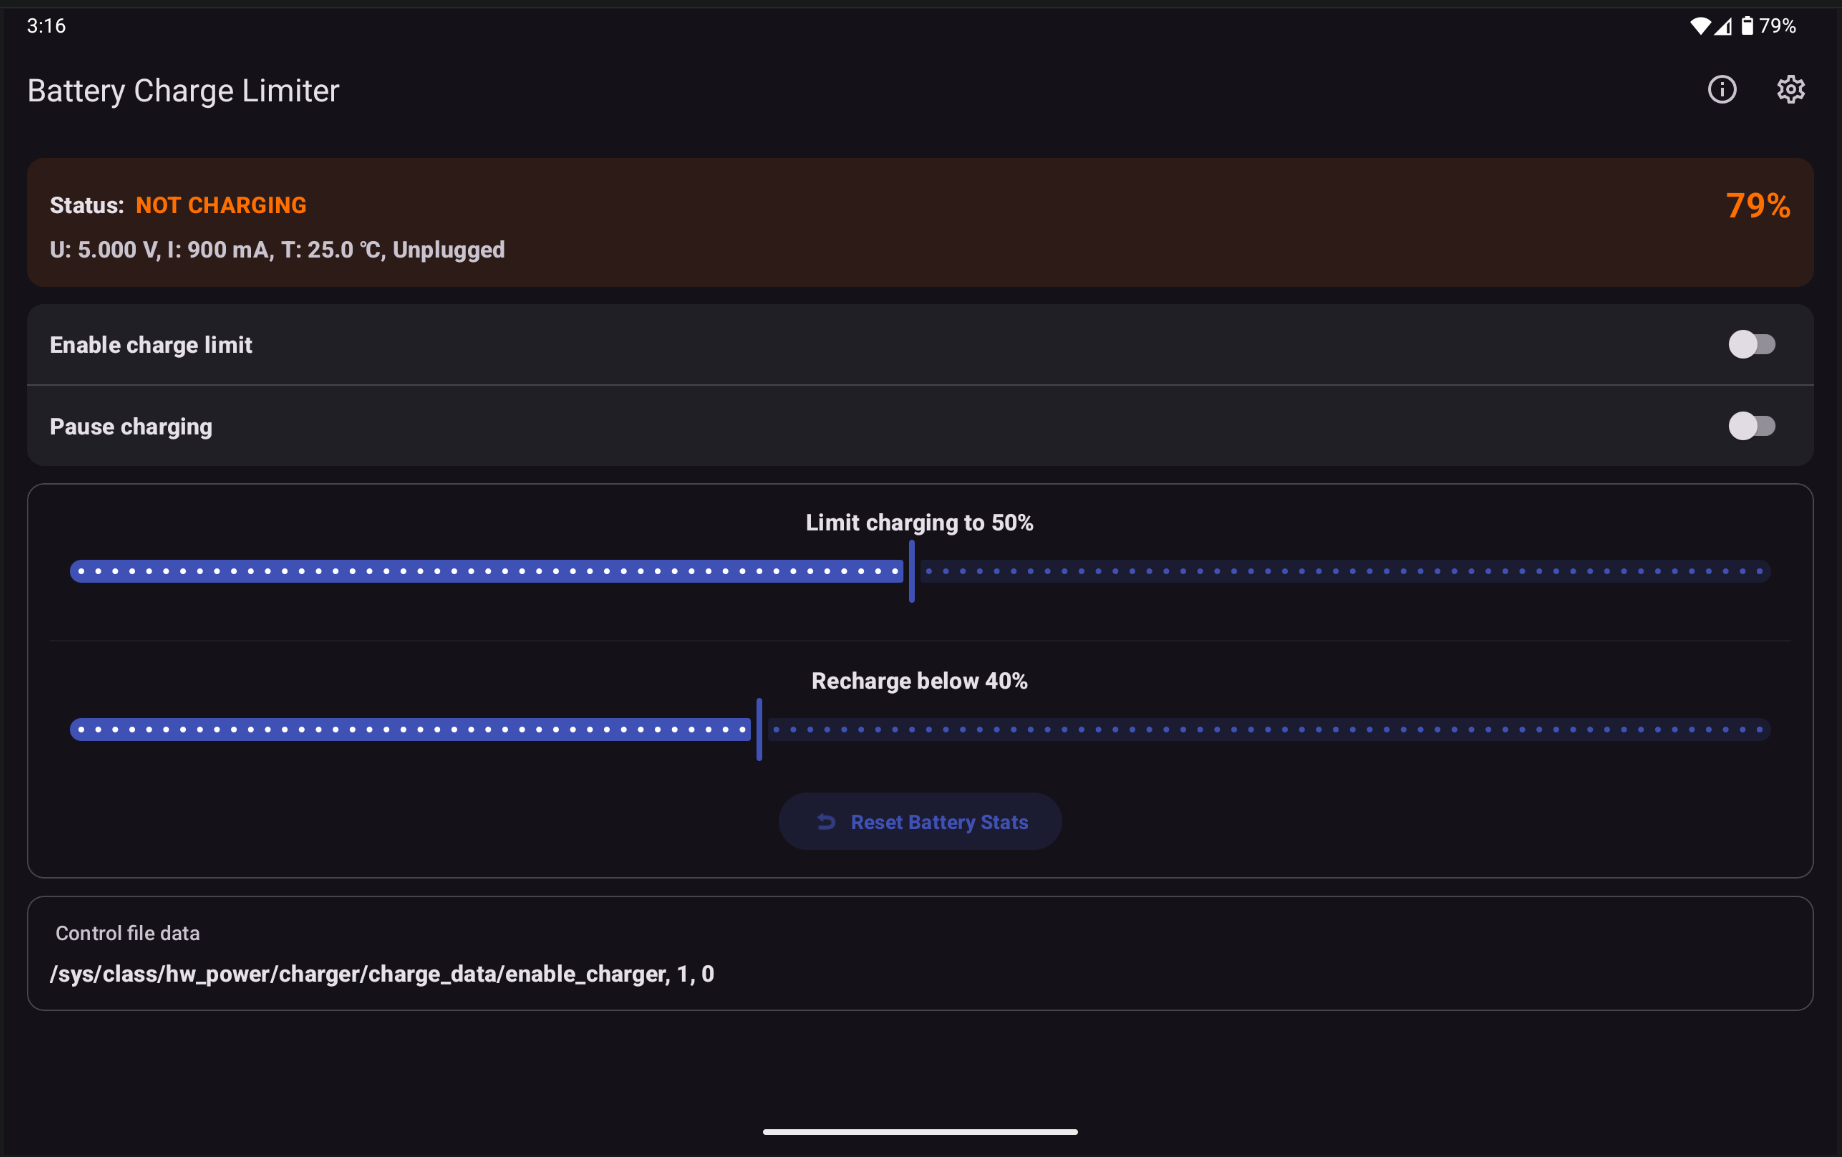
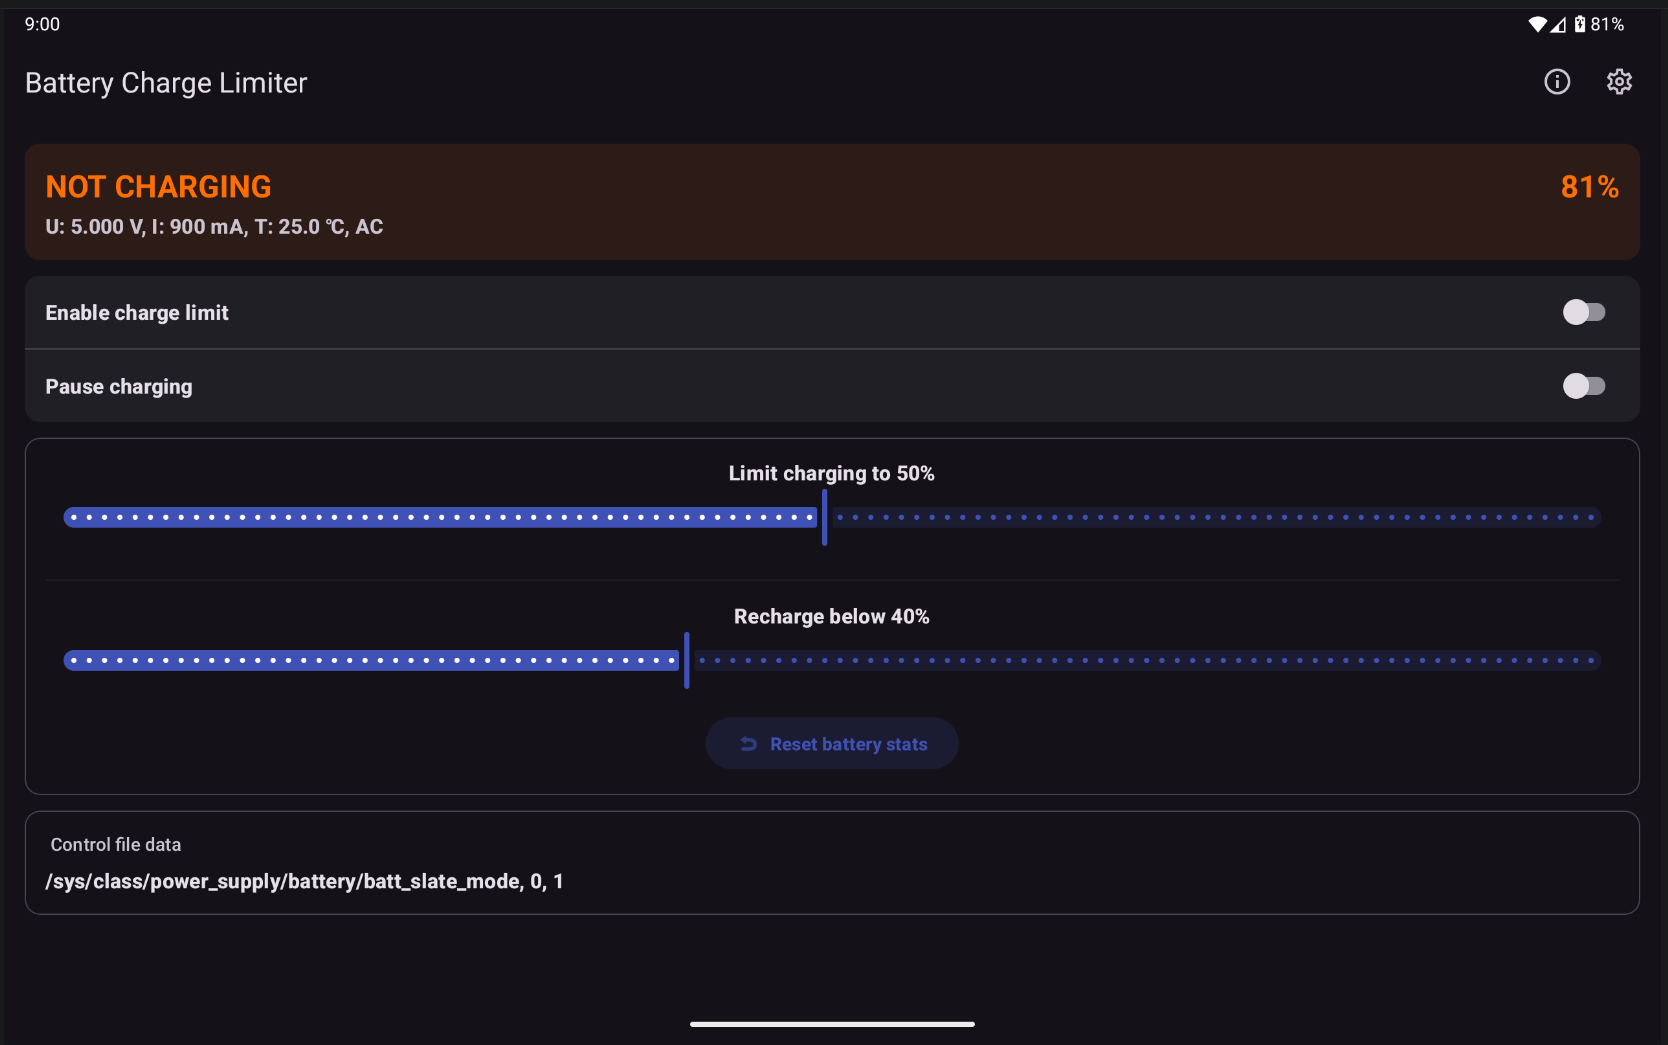
bump: version 1.4.1
- updated README
- updated screenshots of main view
- added screenshot of settings view

diff --git a/README.md b/README.md
@@ -2,67 +2,152 @@
 
 A fork of **Battery Charge Limit** whose development has been stalled for some time.
 
-**NOTE:** This is app currently requires root to function. While it is not possible to control charging without root, an alarm-based solution might be implemented for no-root users in the future.
+**NOTE:** This is app currently requires root to function. It is not possible to control charging without root.
+
+## Screenshots
+
+<img src="screenshots/main-light-theme.png" alt="Main Screen Light Theme" />
+<img src="screenshots/settings-light-theme.png" alt="Settings Screen Light Theme" />
+<img src="screenshots/main-dark-theme.png" alt="Main Screen Dark Theme" />
+
+## What's changed in release 1.4.1
+
+### Features
+- **Main UX**: Updated the main dashboard to clearly show when no control file is selected.
+- **Main UX**: Added logic to prevent enabling the charge limit if no control file is currently selected. Without correctly
+- **Settings UX**: Refactored the "Control file data" section for better clarity. Replaced "Configurable CTRL file data" with a clear "Use custom control file" toggle.
+- **Settings UX**: Implemented real-time summary updates in Settings. The selected control file path or custom configuration is now displayed immediately upon selection.
+- **Settings UX**: Standardized interactive summaries for "Theme", "Control File", and "Configure Control Data" to improve UX discoverability.
+- **Settings UX** Consistent look&feel by applying sentence case style, i.e. only first word is uppercase.
+selected control file the app will not work.
+- **Notifications**: Modernized the notification channel for better compatibility with Android 13+ alert policies.
+- **Notifications**: Notification sounds are now restricted to three key events: reaching the upper charge limit, connecting power and disconnecting power.
+- **Robustness**: Added logic to prevent enabling the charge limit if no control file is currently selected.
+- **Localization**: Improved German language translations and localized new settings summaries across 12 languages.
+
+### Optimizations
+- **Performance**: Improved `SharedPreferences` performance by batching writes into single `apply()` calls.
+- **Performance**: Optimized startup by moving control file validation to a background thread to prevent UI hangs (ANRs).
+ 
+### Bug Fixes
+- **Fix**: Resolved "pre-filled" default value in the custom control file configuration
+
+### Maintenance
+- **Documentation**: Added section in this README file that explains [Pulse Mechanism](#intelligent-charging-control-pulse-mechanism)
+
 
 ## What's changed in release 1.4.0
 ### Features
-- **Dynamic UI**: Added real-time battery level indicators on the main screen with state-aware coloring (Green for charging/full, Orange for discharging).
-- **Power Source Tracking**: Now displays the specific power source (AC, USB, Wireless) in the battery info dashboard.
-- **Internationalization**: Improved clarity for notification settings and synchronized translations across all 12 supported languages.
-- **Battery Health**: Updated default limits to 40% (Min) and 50% (Max) to maximize longevity for devices permanently connected to power.
-- **Testing**: Added comprehensive ADB commands and instructions for simulating battery events in emulators.
+- **Main UX**: Added real-time battery level indicators on the main screen with state-aware coloring (Green for charging/full, Orange for discharging).
+- **Main UX**: Now displays the specific power source (AC, USB, Wireless) in the battery info dashboard.
+- **Main UX**: Updated default limits to 40% (Min) and 50% (Max) to maximize longevity for devices permanently connected to power.
+- **Localization**: Improved clarity for notification settings and synchronized translations across all 12 supported languages.
 
 ### Optimizations
-- **Performance & Stability**: Refactored battery info retrieval to be fully asynchronous, offloading blocking shell commands to a background executor to prevent UI stutters and ANRs.
-- **Enhanced Battery Info**: Now prioritizes direct `sysfs` paths for correct current (mA) reporting.
-- **Improved Responsiveness**: Added a 1-second debounce to sliders to prevent UI lag and excessive disk writes during adjustment.
-- **Hardware Optimization**: Refactored charger file control logic to avoid redundant writes and unnecessary mount operations, improving efficiency and error handling.
+- **Performance**: Refactored battery info retrieval to be fully asynchronous, offloading blocking shell commands to a background executor to prevent UI stutters and ANRs.
+- **Performance**: Refactored charger file control logic to avoid redundant writes and unnecessary mount operations, improving efficiency and error handling.
+- **Performance**: Added a 1-second debounce to sliders to prevent UI lag and excessive disk writes during adjustment.
+- **Optimization**: Now prioritizes direct `sysfs` paths for correct current (mA) reporting.
 
 ### Bug Fixes
 - **Fix**: Fixed notification sound issues on Android 8.0+ by implementing direct playback for ongoing service notifications.
 - **Fix**: Resolved the "Pulse to 1" bug by forcing the charger OFF when plugging in while already above the limit.
 
-### Refactoring
-- **Maintenance**: Improved build stability with updated lint baselines and refined emulator detection logic.
+### Maintenance
+- **Build**: Improved build stability with updated lint baselines and refined emulator detection logic.
 - **Cleanup**: Removed unnecessary imports and obsolete notification sound management functions.
+- **Testing**: Added comprehensive ADB commands and instructions for simulating battery events in emulators.
+
 
 ## What's changed in release 1.3.1
-- **Localized About Dialog**: Added and synchronized translations for the "About" dialog across all 12 languages.
-- **Fix**: Corrected the battery info format string across all languages to match the updated 3-parameter format used in the English version.
-- **Updated Copyright**: Refreshed app authorship and credits to reflect 2026 and the new repository home.
-- **Clarity Improvements**: Renamed "Disable charge now" to "Pause charging" across all supported languages for better consistency.
+
+### Features
+- **Main UX**: Renamed "Disable charge now" to "Pause charging" across all supported languages for better consistency.
+- **About UX**: Added and synchronized translations for the "About" dialog
+- **About UX**: Refreshed app authorship and credits to reflect 2026 and the new repository home.
+
+### Bug Fixes 
+**Fix**: Corrected the battery info format string across all languages to match the updated 3-parameter format used in the English version.
+
 
 ## What's changed in release 1.3.0
-- **Modernized UI**: Refactored the dashboard with a cleaner look. Switches are now cards that change color (green/orange) to clearly show their state.
-- **Better Sliders**: Both sliders now have a fixed 0-100% range for better stability—no more confusing jumps!
-- **Intelligent Limits**: Added "push" logic so moving one slider automatically adjusts the other to maintain the "lower < upper" rule.
-- **Pause Charging**: Renamed "Disable charge now" to "Pause charging" to be more intuitive.
-- **Enhanced Battery Info**: Now shows real-time current (mA) with cleaner formatting for temperature and voltage.
-- **Greater Flexibility**: Lowered the minimum stop limit to 1% and updated defaults to 70% (start) / 80% (stop).
-- **Fixed Crashes**: Resolved stability issues when quickly adjusting sliders.
+
+### Features
+- **Main UX**: Refactored the dashboard with a cleaner look. Switches are now cards that change color (green/orange) to clearly show their state.
+- **Main UX**: Both sliders now have a fixed 0-100% range for better stability—no more confusing jumps!
+- **Main UX**: Added "push" logic so moving one slider automatically adjusts the other to maintain the "lower < upper" rule.
+- **Main UX**: Renamed "Disable charge now" to "Pause charging" to be more intuitive.
+- **Main UX**: battery info now shows also real-time current (mA)
+- **Main UX**: Lowered the minimum stop limit to 1% and updated defaults to 70% (start) / 80% (stop).
+
+### Bug Fixes
+- **Fix**: Resolved stability issues when quickly adjusting sliders.
 
 ## What's changed in release 1.2.0
-- **Simplified Interface**: Removed all GUI elements and related code that allowed to stop charging based on voltage to make app interface cleaner and simpler to use.
-- **Data Sync Fix**: Fixed refreshing control file data on return to Main screen. This will now be in sync with what was selected in settings screen.
+
+### Features
+- **Main UX**: Fixed refreshing control file data on return to Main screen. This will now be in sync with what was selected in settings screen.
+- **Main UX**: Removed all GUI elements and related code that allowed to stop charging based on voltage to make app interface cleaner and simpler to use.
+
+### Maintenance
 - **Build Migration**: Migrated build system to Kotlin DSL and Gradle 9.3.1.
 - **SDK Update**: Updated to JVM SDK 17.
 
-## Features
+
+## Main Features of BCL
 - Free and open source.
 - Material 3 with dynamic colors.
 - Control when to start and stop charging based on battery percentage — either directly or via a widget.
 - Set custom battery control configuration if the supplied ones cannot be used properly.
 
-### Same as ACC?
-`acc` offers a broad range of features which might be too much for some people.
+## Intelligent Charging Control (Pulse Mechanism)
+BCL uses an intelligent "Pulse" mechanism to manage the charging. 
+
+### Why it's needed
+On many devices, the battery driver might ignore a "charging OFF" command if it arrives immediately after a charger is plugged in or while the kernel is busy updating its own status. BCL solves this by using a cycling approach to ensure the hardware registers the change.
+
+### How it works
+When the battery reaches the limit but the system reports it is still charging, BCL performs the following steps:
+
+1. **The Double-Tap (Pulse)**: Instead of just sending an **OFF** command (stop charging), the app briefly cycles the state to **ON** (start charging) and then schedules an **OFF** command after a short delay (`backOffTime`). This "edges" the hardware state to ensure the final stop command is accepted.
+2. **Increasing Backoff**: If the hardware doesn't respond immediately, BCL doubles the delay for the next attempt (e.g., 500ms → 1000ms → 2000ms), up to a maximum of 30 seconds. This prevents unnecessary root command spam while ensuring eventual success.
+3. **Safety Buffer**: If the battery is only 1% above the limit, BCL avoids pulsing and simply sends a silent "OFF" command. This prevents the "Pulse to 1" bug where the phone rapidly toggles charging on/off when it's exactly on the edge.
+4. **Cool-down periods**: BCL ignores stale system broadcasts for a few seconds after a state change to prevent "race conditions" where old battery info interferes with a pulse currently in progress.
+
+### Visual Timing Graph
+This graph shows the charging state over time as the app attempts to force a stop. Each pulse represents a new attempt triggered by a system broadcast if the previous attempt failed.
+
+**ON** and **OFF** are the commands that start respectively stop charging):
+```text
+    ^
+on  |  _    __    ____      ________          ________________                  ______________________________
+    | | |  |  |  |    |    |        |        |                |                |                              |
+off | |_|__|__|__|____|____|________|________|________________|________________|______________________________|____
+     1s   2s    4s        8s                16s                               30s (MAX)
+```
+
+### Timing Diagram (Pulse Sequence)
+When the app detects that charging hasn't stopped, it performs a "Recovery Pulse":
+
+Sequence      | Time      | Action                     | Charger State | backOffTime
+--------------|-----------|----------------------------|---------------|-------------
+1. Broadcast  | t=0ms     | onReceive() triggered      | (STUCK ON)    | 500ms
+2. Logic      | t=0ms     | backOffTime doubled        | ON            | 1000ms
+3. Setup      | t=0ms     | Utils.changeState(ON)      | ON            | 1000ms
+4. Schedule   | t=0ms     | Handler.postDelayed(OFF)   | ON            | 1000ms
+5. Pulse Ends | t=1000ms  | Delayed Task executes      | OFF           | 1000ms
+6. Verify     | t=next    | Next broadcast (Success?)  | OFF           | 500ms (Reset)
+
+
+**Explanation of the sequence:**
+*   **Steps 1–4** happen immediately (within milliseconds) as soon as the app receives a battery update showing that the charge hasn't stopped.
+*   **Step 2** doubles the timer *before* the pulse starts. This is because the app treats the pulse as a "Level 2" intervention—the "Level 1" intervention was the initial `OFF` command sent when you first hit the limit, which has already failed.
+*   **Step 5** is the actual hardware change where charging is forced `OFF` again after the pulse duration.
+*   **Step 6** happens when the Android system sends the next battery update. If charging has finally stopped, the `backOffTime` is reset to 500ms for the next time it's needed.
+
 
 ## Troubleshooting
 If BCL cannot start or stop charging correctly, enable **Always Write CTRL File** in the settings.
-
-## Screenshots
-
-<img src="screenshots/main-light-theme.png" alt="App Screenshot Light Theme" />
-<img src="screenshots/main-dark-theme.png" alt="App Screenshot Dark Theme" />
 
 ## License
 
